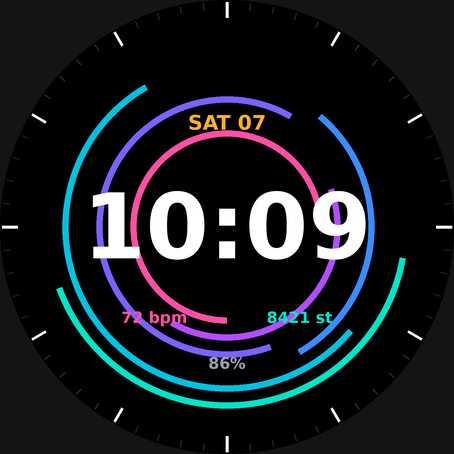
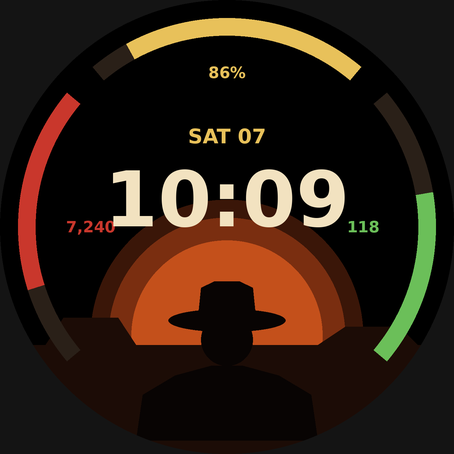
Restyle watch face as RDR2 Outlaw HUD with core gauges and sunset silhouette
Claude-Session: https://claude.ai/code/session_01JyrKyEBYWzHVSZAuwgK37t

diff --git a/README.md b/README.md
@@ -1,8 +1,14 @@
-# Aurora Rings – custom Garmin watch face
+# Outlaw HUD – RDR2-style Garmin watch face
 
-A Connect IQ watch face with a wallpaper drawn entirely in code (concentric
-gradient-coloured arcs on pure black), so it is sharp on any round screen and
-AMOLED-friendly. Shows time, date, heart rate, steps and battery.
+A Connect IQ watch face inspired by Red Dead Redemption 2: sunset wallpaper,
+an original cowboy silhouette (no Rockstar artwork) and the three "core" gauges
+around the bezel, all drawn in code so it fits any round screen.
+
+| Core | Colour | Shows |
+|------|--------|-------|
+| Health | red (left) | steps toward your daily goal |
+| Stamina | green (right) | heart rate (fraction of 190 bpm) |
+| Dead Eye | gold (top) | watch battery |
 
 ![preview](preview.png)
 
@@ -23,10 +29,10 @@ to fix small compile errors on the first build.
    (the manifest lists many round devices; unused ones can be removed).
 5. **Monkey C: Build for Device** → produces `bin/*.prg`.
 6. Plug the watch in by USB and copy the `.prg` into `GARMIN/APPS/` on the watch.
-7. On the watch: hold the face → pick **Aurora Rings**.
+7. On the watch: hold the face → pick **Outlaw HUD**.
 
-## Customising the wallpaper
-Everything is in `source/WallpaperFaceView.mc`:
-- `RING_COLORS` – ring colours (0xRRGGBB)
-- `starts` / `sweeps` in `drawRings` – where each arc begins and how long it is
-- `drawTicks` – bezel tick marks
+## Customising
+Everything is in `source/WallpaperFaceView.mc`: colour constants at the top,
+`drawScene` for the sunset/silhouette, `drawCore` for the gauges. To use your own
+wallpaper image instead, add it under `resources/drawables` and draw it in `onUpdate`
+before the cores.
